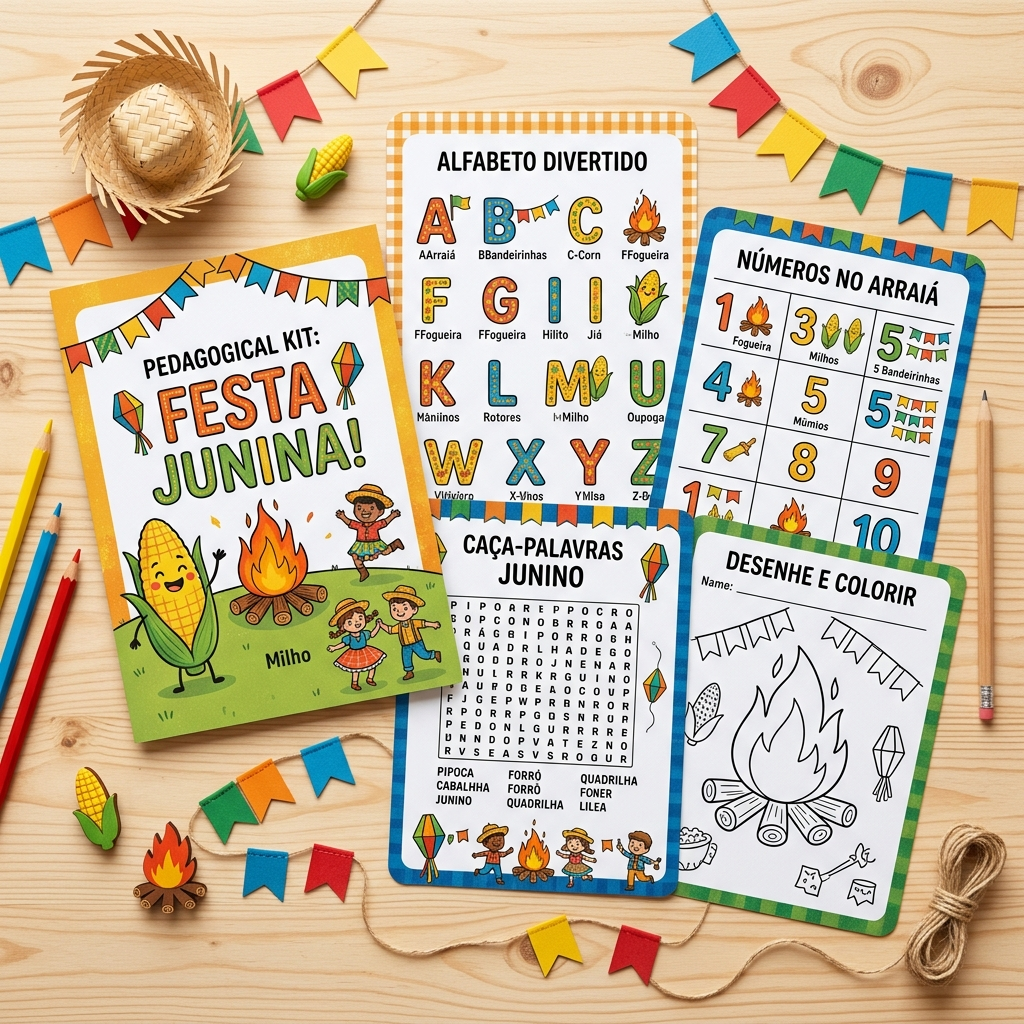
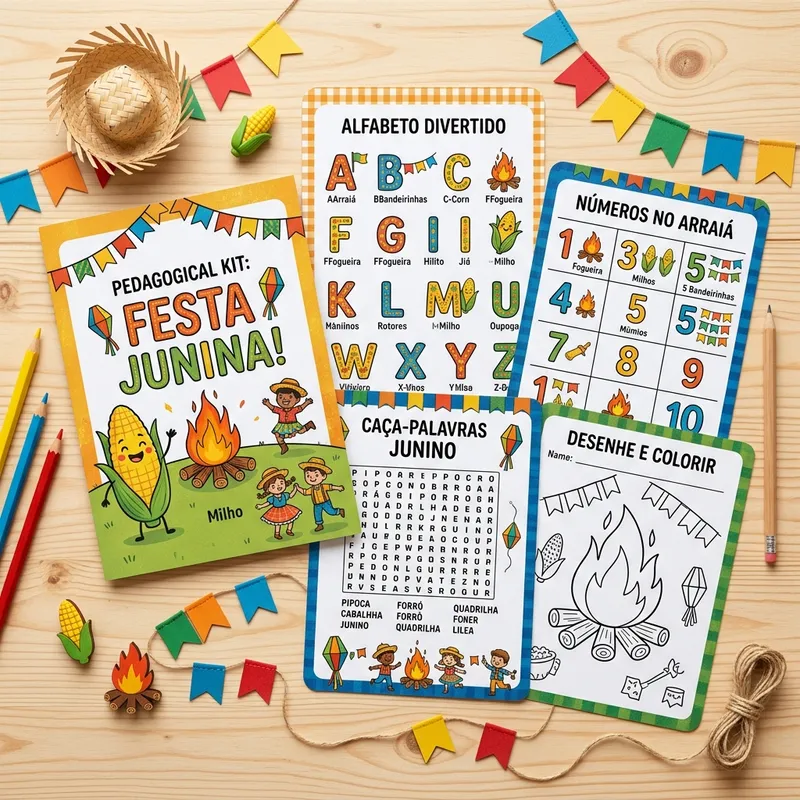
Optimize PageSpeed: Resize mockup (1MB->132KB), fix accessibility contrast, and improve HTML structure

diff --git a/index.html b/index.html
@@ -8,7 +8,7 @@
     <!-- Google Fonts -->
     <link rel="preconnect" href="https://fonts.googleapis.com">
     <link rel="preconnect" href="https://fonts.gstatic.com" crossorigin>
-    <link href="https://fonts.googleapis.com/css2?family=Fredoka:wght@400;600;700&family=Nunito:wght@400;600;800&display=swap" rel="stylesheet">
+    <link href="https://fonts.googleapis.com/css2?family=Fredoka:wght@400;600;700&family=Nunito:wght@400;600;800&display=swap&font-display=swap" rel="stylesheet">
     <link rel="stylesheet" href="styles.css">
 </head>
 <body>
@@ -21,7 +21,7 @@
                 <span class="banner-sub">Essa condição pode expirar em breve</span>
             </div>
             <div class="banner-timer">
-                <span id="countdown" class="countdown-badge">05:00</span>
+                <span id="countdown" class="countdown-badge" aria-live="polite" aria-label="Tempo restante da oferta">05:00</span>
             </div>
             <a href="#oferta" class="banner-btn">APROVEITAR AGORA</a>
         </div>
@@ -36,6 +36,7 @@
         <div class="bandeirinhas-bg"></div>
     </div>
 
+    <main>
     <!-- Hero Section -->
     <header class="hero">
         <div class="container hero-content fade-in">
@@ -48,7 +49,7 @@
                 <a href="#oferta" class="btn btn-primary lg pulse-btn">Quero Garantir Meu Kit Agora</a>
             </div>
             <div class="hero-mockup fade-in-delay-2">
-                <img src="kit_mockup.webp" alt="Kit Festa Junina Pedagógico Mockup" class="mockup-img">
+                <img src="kit_mockup.webp" alt="Kit Festa Junina Pedagógico Mockup" class="mockup-img" width="800" height="600" fetchpriority="high">
             </div>
         </div>
     </header>
@@ -132,7 +133,7 @@
             <div class="urgency-alert inline-alert pulse-alert">
                 <span class="alert-icon">🚨</span>
                 <div>
-                    <h4>Festa Junina está chegando...</h4>
+                    <h2 class="h4-style">Festa Junina está chegando...</h2>
                     <p>Quem deixa para última hora acaba improvisando aula e se estressando. Garanta agora seu material completo e prepare tudo com tranquilidade.</p>
                 </div>
             </div>
@@ -166,6 +167,7 @@
         </div>
     </section>
 
+    </main>
     <!-- Footer -->
     <footer class="footer">
         <div class="container text-center">

diff --git a/styles.css b/styles.css
@@ -9,11 +9,11 @@
     --text-muted: #5A5A5A;
     
     /* Festive Accents */
-    --accent-red: #FF3A3A;
-    --accent-orange: #FF7B00;
+    --accent-red: #D32F2F; /* Darker red for contrast */
+    --accent-orange: #E65100; /* Darker orange for contrast */
     --accent-yellow: #FFD60A;
-    --accent-blue: #00A6FB;
-    --accent-green: #00C675;
+    --accent-blue: #0077C2; /* Darker blue */
+    --accent-green: #2E7D32; /* Darker green */
 
     --accent-gradient: linear-gradient(135deg, var(--accent-orange), var(--accent-red));
     --highlight-gradient: linear-gradient(135deg, var(--accent-yellow), var(--accent-orange));
@@ -201,7 +201,7 @@ a {
 
 .section-description {
     font-size: 1.15rem;
-    color: var(--text-muted);
+    color: #424242; /* Darker muted text */
     max-width: 650px;
     margin: 0 auto 48px auto;
 }
@@ -265,6 +265,9 @@ a {
     font-size: 1rem;
     margin-bottom: 12px;
     font-family: var(--font-display);
+    background: rgba(230, 81, 0, 0.1);
+    padding: 4px 12px;
+    border-radius: 4px;
 }
 
 /* --------------------
@@ -618,8 +621,15 @@ a {
     .countdown-badge { font-size: 1rem; padding: 4px 10px; }
     .banner-btn { font-size: 0.75rem; padding: 6px 12px; }
 }
+.h4-style {
+    font-size: 1.25rem;
+    font-weight: 700;
+    margin-bottom: 8px;
+    color: var(--accent-red);
+}
+
 @keyframes pulse-timer {
-    0% { transform: scale(1); box-shadow: 0 0 0 0 rgba(255, 58, 58, 0.7); }
-    70% { transform: scale(1.08); box-shadow: 0 0 0 12px rgba(255, 58, 58, 0); }
-    100% { transform: scale(1); box-shadow: 0 0 0 0 rgba(255, 58, 58, 0); }
+    0% { transform: scale(1); box-shadow: 0 0 0 0 rgba(211, 47, 47, 0.7); }
+    70% { transform: scale(1.08); box-shadow: 0 0 0 12px rgba(211, 47, 47, 0); }
+    100% { transform: scale(1); box-shadow: 0 0 0 0 rgba(211, 47, 47, 0); }
 }
